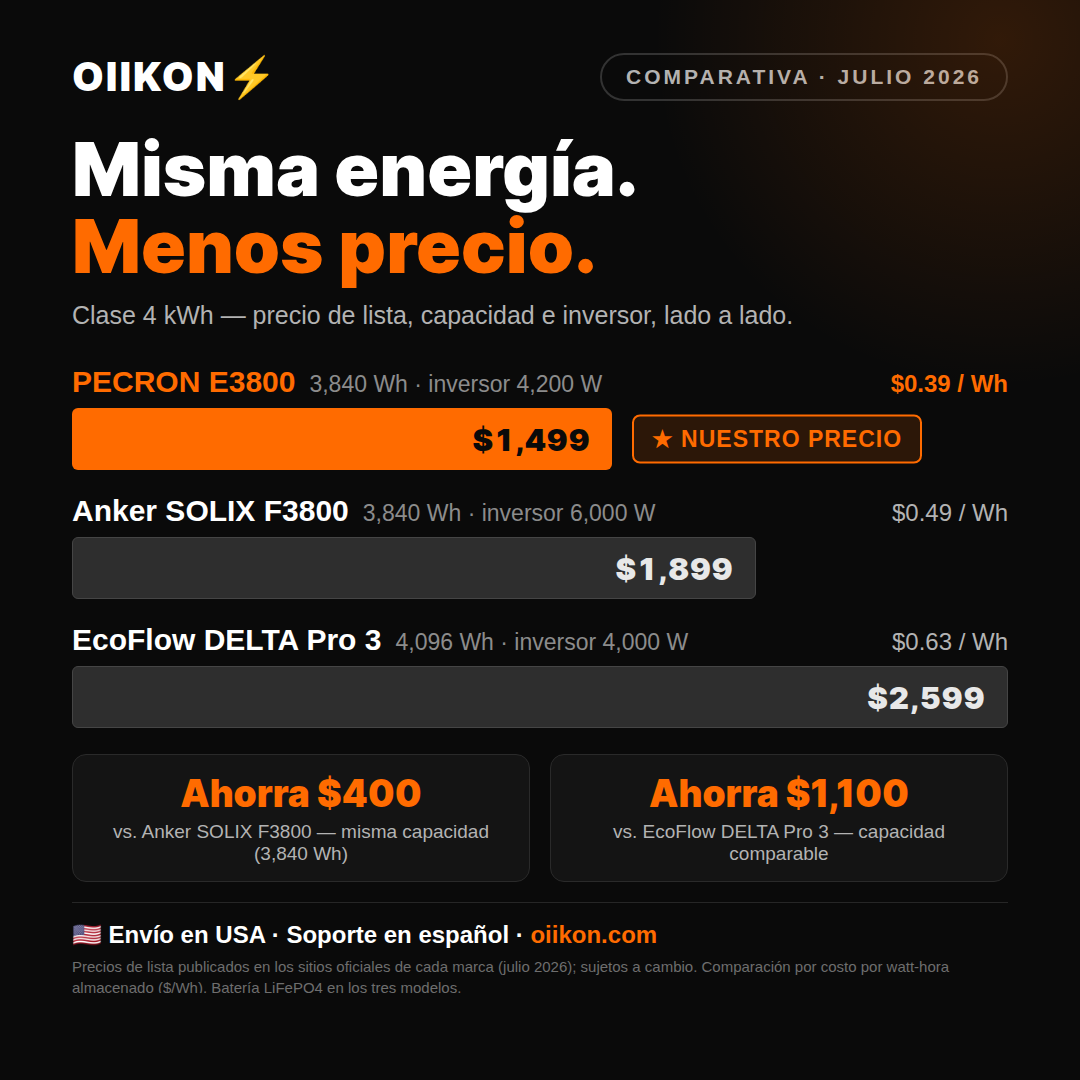
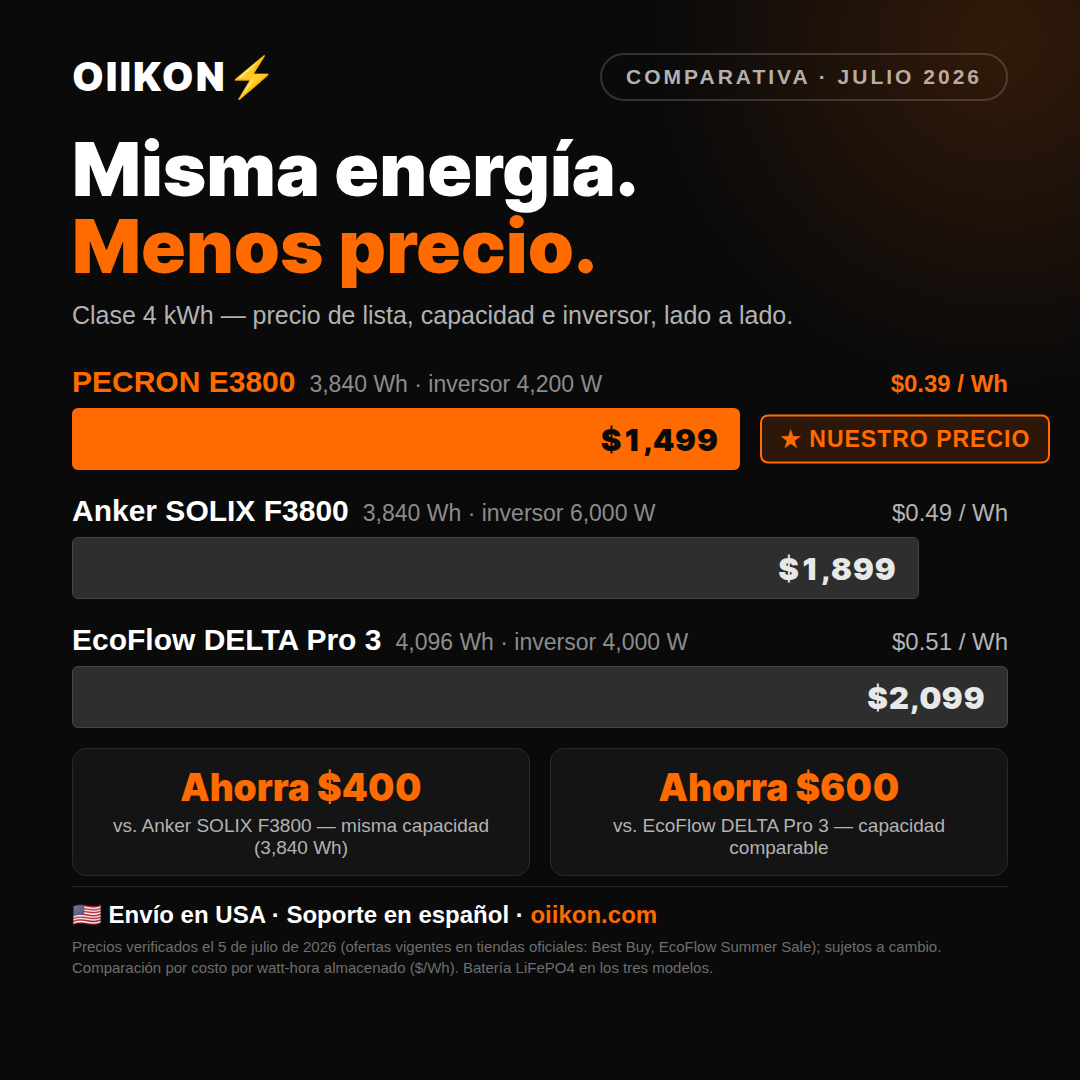
fix(marketing): corrige precio EcoFlow DELTA Pro 3 a $2,099 verificado
El seed de abril ($2,599) quedó desactualizado: ofertas 2026 recurrentes
en $2,099 y Summer Sale vigente. Tarjeta y copy actualizados ($0.51/Wh,
ahorro $600); Anker F3800 $1,899 confirmado en Best Buy 2026-07-05.

Claude-Session: https://claude.ai/code/session_01EcRMEtf5hybpSELU6rjuhS

diff --git a/marketing/facebook/2026-07-05-e3800-comparativa/card.html b/marketing/facebook/2026-07-05-e3800-comparativa/card.html
@@ -45,19 +45,19 @@
     justify-content: flex-end; padding-right: 22px;
     font-family: 'Inter Black'; font-size: 31px; font-variant-numeric: tabular-nums;
   }
-  .pecron .bar { width: 57.7%; background: #FF6B00; color: #0A0A0A; }
-  .anker .bar { width: 73.1%; background: #2E2E2E; color: #E8E8E8; border: 1px solid #454545; }
+  .pecron .bar { width: 71.4%; background: #FF6B00; color: #0A0A0A; }
+  .anker .bar { width: 90.5%; background: #2E2E2E; color: #E8E8E8; border: 1px solid #454545; }
   .ecoflow .bar { width: 100%; background: #2E2E2E; color: #E8E8E8; border: 1px solid #454545; }
   .pecron .name { color: #FF6B00; }
   .pecron .perwh { color: #FF6B00; font-weight: 700; }
   .tag {
-    position: absolute; left: calc(57.7% + 20px); top: 50%; transform: translateY(-50%);
+    position: absolute; left: calc(71.4% + 20px); top: 50%; transform: translateY(-50%);
     background: rgba(255,107,0,0.14); border: 2px solid #FF6B00; color: #FF6B00;
     border-radius: 8px; padding: 9px 18px; font-size: 23px; font-weight: 700;
     letter-spacing: 1px; white-space: nowrap;
   }
   .savings {
-    margin-top: 26px; display: flex; gap: 20px;
+    margin-top: 20px; display: flex; gap: 20px;
   }
   .save-pill {
     flex: 1; background: #141414; border: 1px solid #2A2A2A; border-radius: 14px;
@@ -65,7 +65,7 @@
   }
   .save-pill .amt { font-family: 'Inter Black'; font-size: 37px; color: #FF6B00; }
   .save-pill .vs { font-size: 19px; color: #B3B3B3; margin-top: 5px; }
-  .footer { margin-top: 20px; border-top: 1px solid #262626; padding-top: 18px; }
+  .footer { margin-top: 10px; border-top: 1px solid #262626; padding-top: 14px; }
   .footer .cta { font-size: 24px; font-weight: 700; }
   .footer .cta .site { color: #FF6B00; }
   .footer .fine { font-size: 15px; color: #6E6E6E; margin-top: 8px; line-height: 1.35; }
@@ -105,9 +105,9 @@
     <div class="row ecoflow">
       <div class="meta">
         <div class="name">EcoFlow DELTA Pro 3<span class="specs">4,096 Wh · inversor 4,000 W</span></div>
-        <div class="perwh">$0.63 / Wh</div>
+        <div class="perwh">$0.51 / Wh</div>
       </div>
-      <div class="track"><div class="bar">$2,599</div></div>
+      <div class="track"><div class="bar">$2,099</div></div>
     </div>
   </div>
 
@@ -117,14 +117,14 @@
       <div class="vs">vs. Anker SOLIX F3800 — misma capacidad (3,840 Wh)</div>
     </div>
     <div class="save-pill">
-      <div class="amt">Ahorra $1,100</div>
+      <div class="amt">Ahorra $600</div>
       <div class="vs">vs. EcoFlow DELTA Pro 3 — capacidad comparable</div>
     </div>
   </div>
 
   <div class="footer">
     <div class="cta">🇺🇸 Envío en USA · Soporte en español · <span class="site">oiikon.com</span></div>
-    <div class="fine">Precios de lista publicados en los sitios oficiales de cada marca (julio 2026); sujetos a cambio. Comparación por costo por watt-hora almacenado ($/Wh). Batería LiFePO4 en los tres modelos.</div>
+    <div class="fine">Precios verificados el 5 de julio de 2026 (ofertas vigentes en tiendas oficiales: Best Buy, EcoFlow Summer Sale); sujetos a cambio. Comparación por costo por watt-hora almacenado ($/Wh). Batería LiFePO4 en los tres modelos.</div>
   </div>
 </body>
 </html>

diff --git a/marketing/facebook/2026-07-05-e3800-comparativa/post.md b/marketing/facebook/2026-07-05-e3800-comparativa/post.md
@@ -3,7 +3,7 @@
 **Producto:** PECRON E3800LFP · 3,840 Wh · inversor 4,200 W · **$1,499** (precio fijado por el dueño para esta publicación; el catálogo de abril decía $1,199 — confirmar cuál rige en la tienda antes de publicar).
 
 **Fuentes de la comparación:** tabla `competitor_models` (seed 2026-04-20, precios de lista de sitios oficiales):
-Anker SOLIX F3800 — 3,840 Wh / 6,000 W / $1,899 · EcoFlow DELTA Pro 3 — 4,096 Wh / 4,000 W / $2,599 · (alt.: EcoFlow DELTA Pro — 3,600 Wh / 3,600 W / $1,899).
+Anker SOLIX F3800 — 3,840 Wh / 6,000 W / $1,899 (verificado 2026-07-05: Best Buy, oferta 4 de julio) · EcoFlow DELTA Pro 3 — 4,096 Wh / 4,000 W / $2,099 (verificado 2026-07-05: precio de oferta recurrente 2026 y Summer Sale vigente; el seed de abril decía $2,599, ya desactualizado).
 
 > Cumplimiento (code-of-conduct §3.2): comparación precisa, sustanciada y no despectiva.
 > Nota: el skill de marketing prohíbe nombres de competidores en contenido *auto-generado*;
@@ -22,9 +22,9 @@ Anker SOLIX F3800 — 3,840 Wh / 6,000 W / $1,899 · EcoFlow DELTA Pro 3 — 4,0
 
 🔶 **PECRON E3800** · 3,840 Wh · 4,200 W → **$1,499** ($0.39/Wh)
 ▫ Anker SOLIX F3800 · 3,840 Wh · 6,000 W → $1,899 ($0.49/Wh)
-▫ EcoFlow DELTA Pro 3 · 4,096 Wh · 4,000 W → $2,599 ($0.63/Wh)
+▫ EcoFlow DELTA Pro 3 · 4,096 Wh · 4,000 W → $2,099 ($0.51/Wh)
 
-👉 La **misma energía almacenada** que el Anker F3800 por **$400 menos** — y **$1,100 menos** que el DELTA Pro 3.
+👉 La **misma energía almacenada** que el Anker F3800 por **$400 menos** — y **$600 menos** que el DELTA Pro 3.
 
 ✅ Expandible: agrégale la batería EP3800-48V y duplica tu respaldo (mira las fotos 1 y 2)
 ✅ Carga por panel solar, pared o carro
@@ -35,7 +35,7 @@ Anker SOLIX F3800 — 3,840 Wh / 6,000 W / $1,899 · EcoFlow DELTA Pro 3 — 4,0
 📲 Escríbenos por WhatsApp: https://wa.me/15616988477
 🛒 O cómpralo directo en oiikon.com
 
-*Precios de la competencia tomados de los sitios web oficiales de cada marca en julio 2026; sujetos a cambio. Comparación por costo por watt-hora almacenado ($/Wh); los tres modelos usan batería LiFePO4.*
+*Precios de la competencia verificados el 5 de julio de 2026 (ofertas vigentes en tiendas oficiales); sujetos a cambio. Comparación por costo por watt-hora almacenado ($/Wh); los tres modelos usan batería LiFePO4.*
 
 #EnergiaSolar #PowerStation #Pecron #Apagones #PlantaElectrica #Oiikon #BackupPower
 
@@ -55,7 +55,7 @@ Anker SOLIX F3800 — 3,840 Wh / 6,000 W / $1,899 · EcoFlow DELTA Pro 3 — 4,0
 |---|---|---|---|---|
 | PECRON E3800 | 3,840 | 4,200 W | $1,499 | $0.39 |
 | Anker SOLIX F3800 | 3,840 | 6,000 W | $1,899 | $0.49 |
-| EcoFlow DELTA Pro 3 | 4,096 | 4,000 W | $2,599 | $0.63 |
+| EcoFlow DELTA Pro 3 | 4,096 | 4,000 W | $2,099 | $0.51 |
 
-Specs E3800: `supabase/schema.sql` (3,840 Wh / 4,200 W). Competidores: `supabase/20260420_competitor_models.sql`.
+Specs E3800: `supabase/schema.sql` (3,840 Wh / 4,200 W). Precios de competidores verificados por web el 2026-07-05 (Best Buy $1,899 para el F3800; DELTA Pro 3 en $2,099 en ofertas 2026 — fuentes: bestbuy.com, 9to5toys.com 2026-03/04, EcoFlow Summer Sale). Recordar: la tabla `competitor_models` (seed abril) tiene el DELTA Pro 3 a $2,599 — conviene refrescarla con /api/cron/refresh-competitors.
 Nota honesta: el Anker F3800 tiene un inversor más potente (6,000 W); el argumento de venta es $/Wh — misma energía almacenada por menos dinero — no potencia pico.
